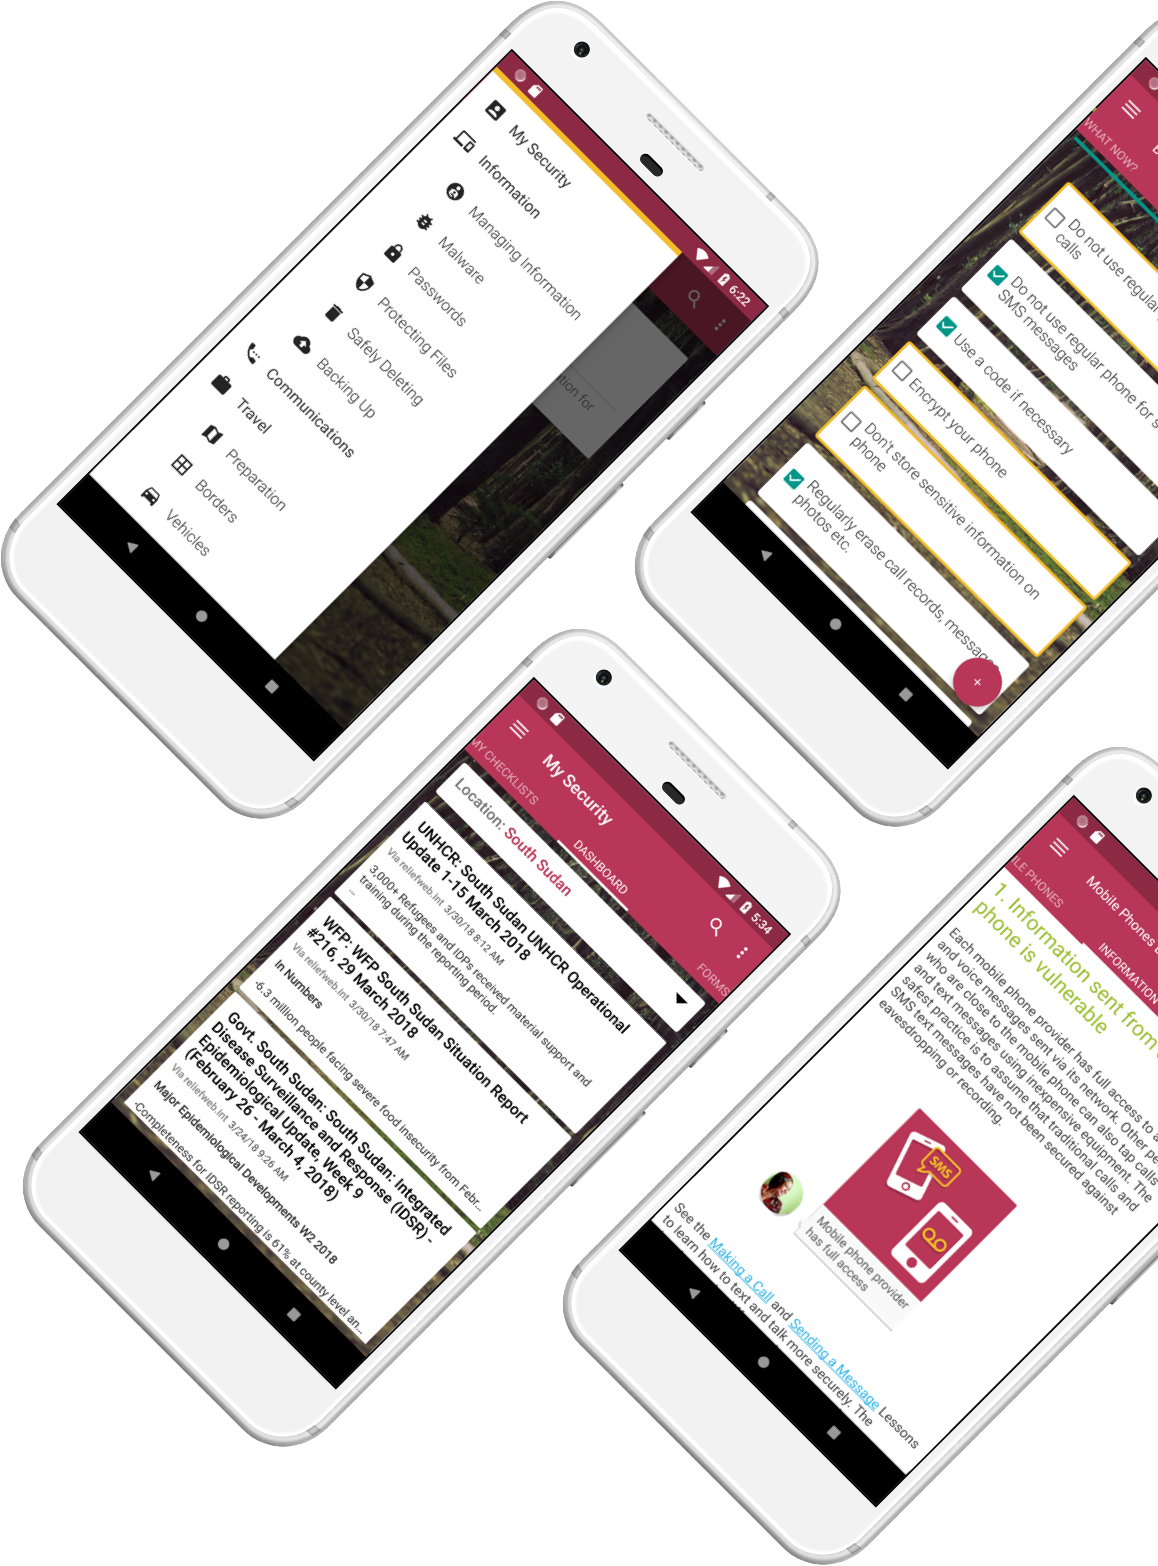
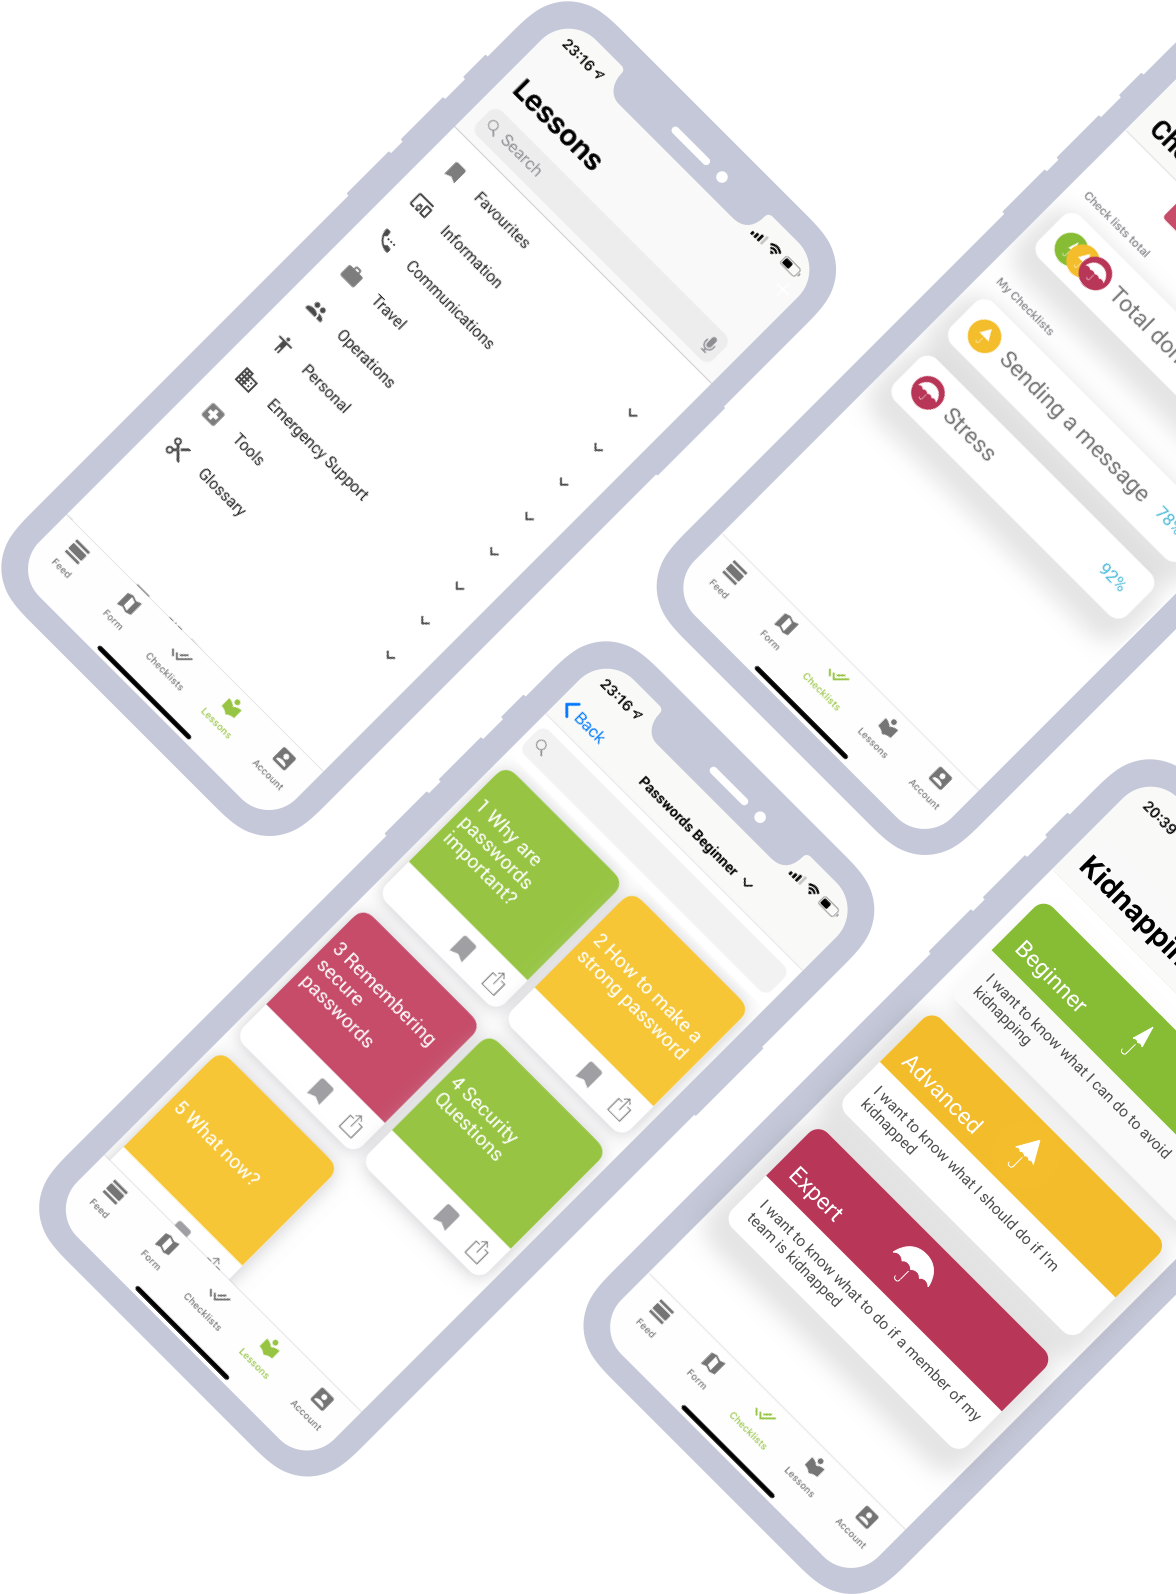
updated images to new app

diff --git a/layouts/shortcodes/download.html b/layouts/shortcodes/download.html
@@ -2,6 +2,11 @@
   <div class="spacer-top30 download">{{.Get "text"}}</div>
   <div class="row">
     <div class="mr-auto">
+      <a target="_blank" href="https://itunes.apple.com/us/app/umbrella-security/id145371531">
+        <img src="/imgs/download-appstore.png" alt="App Store download" title="Download from App Store" />
+      </a>
+    </div>
+    <div class="mr-auto">
       <a target="_blank" href="https://play.google.com/store/apps/details?id=org.secfirst.umbrella">
         <img src="/imgs/download-playstore.png" alt="Play Store download" title="Download from Play Store" />
       </a>

diff --git a/content/umbrella.md b/content/umbrella.md
@@ -14,7 +14,7 @@ published: true
         {{< download text="Download Now">}}
       </div>
       <div class="col-lg-6 d-none d-lg-block">
-        <img class="hero-app-2" src="/imgs/hero-app-2.png"/>
+        <img class="hero-app-2" src="/imgs/press-apps.png"/>
       </div>
     </div>
   </div>
